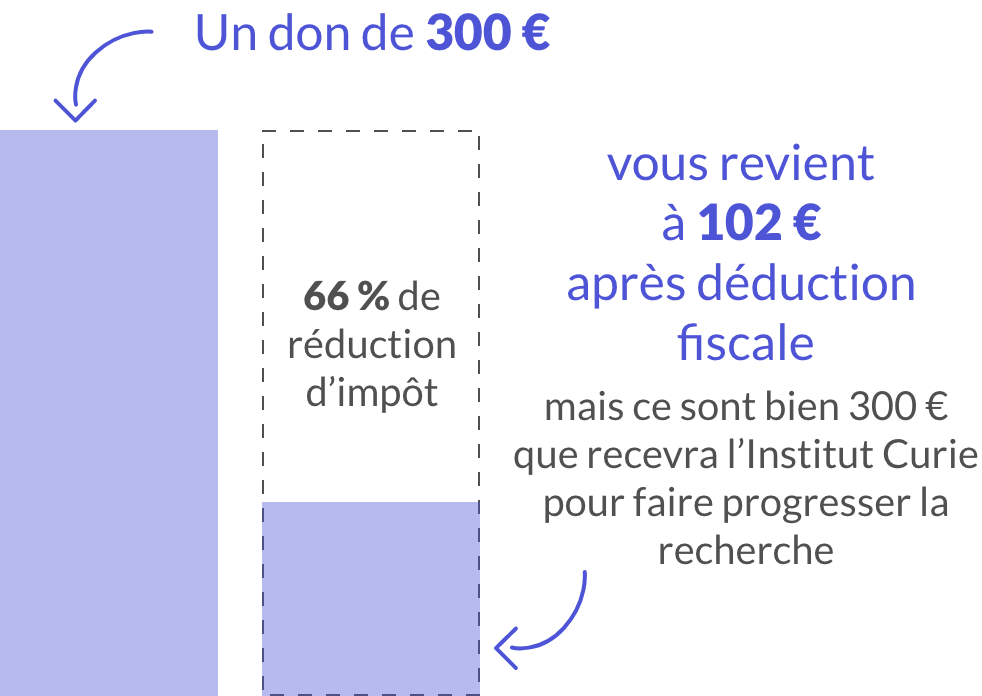
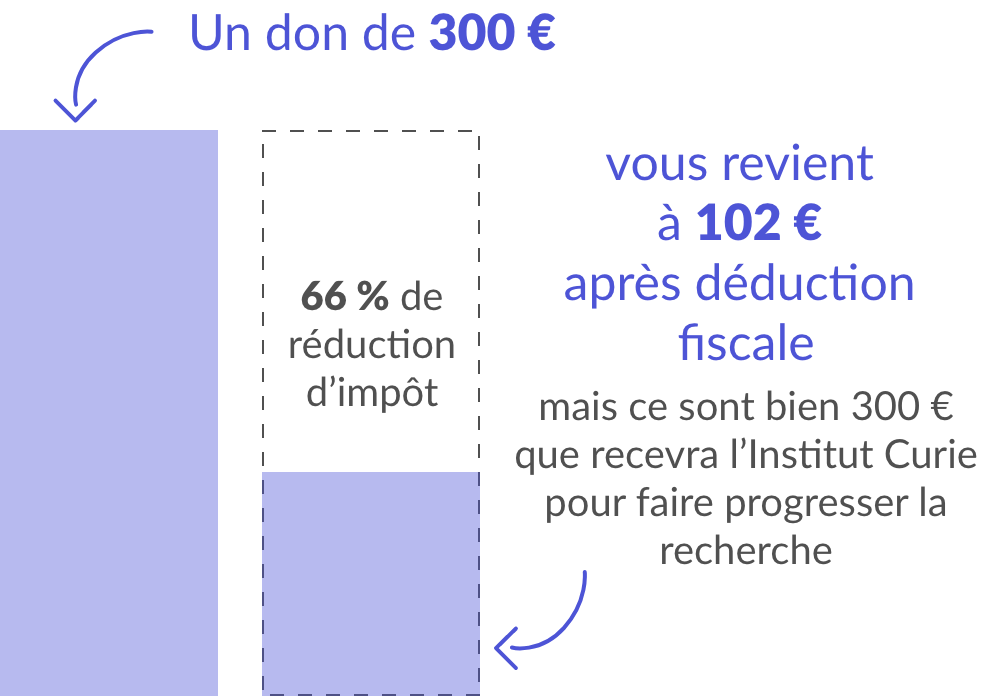
fix: retours

diff --git a/src/lib/components/Projects.svelte b/src/lib/components/Projects.svelte
@@ -95,14 +95,14 @@
                     <p class="text-[#505050] font-Lato text-sm 2xl:text-xl mt-2 xl:mt-5">
                         Pour prendre le cancer de vitesse, investir dans des équipements de pointe est une nécessité.
                         Par exemple, le Dr Stéphanie Descroix, a actuellement besoin d’acquérir un nouveau microscope
-                        dans le cadre du projet de recherche des « <span class="font-bold">tumeurs sur puce</span> ».
+                        dans le cadre du projet de recherche des «&nbsp;<span class="font-bold">tumeurs sur puce</span>&nbsp;».
                     </p>
                     <p class="text-xl font-Lato mt-2 xl:mt-5 font-bold text-[#4D54D6] uppercase underline">
                         Les perspectives pour les patients
                     </p>
                     <p class="text-[#505050] font-Lato text-sm 2xl:text-xl mt-2 xl:mt-5">
                         <span class="italic">« L’acquisition de cet équipement permettra d’exploiter pleinement le potentiel révolutionnaire des tumeurs sur puce. <span
-                                class="font-bold">Il apportera une économie de temps et de ressources permettant de progresser plus vite dans le projet de recherche et de délivrer plus rapidement des traitements ultra- personnalisés pour chaque patient.</span> »</span><br/><br/>
+                                class="font-bold">Il apportera une économie de temps et de ressources permettant de progresser plus vite dans le projet de recherche et de délivrer plus rapidement des traitements ultra-personnalisés pour chaque patient.</span> »</span><br/>
 
                         Dr Stéphanie Descroix
                     </p>
@@ -114,11 +114,11 @@
                     <p class="text-[#505050] font-Lato text-sm 2xl:text-xl  mt-2 xl:mt-5">
                         Les tumeurs sur puce sont des dispositifs miniaturisés permettant de reconstituer fidèlement, in
                         vitro, la tumeur d’un patient. L’intérêt de cette innovation technologique est de pouvoir tester
-                        les traitements sur la tumeur sur puce afin d’identifier celui que sera le plus efficace pour le
+                        les traitements sur la tumeur sur puce afin d’identifier celui qui sera le plus efficace pour le
                         cancer du patient étudié.<br/><br/>
 
                         Mais ce projet nécessite des technologies d’imagerie avancées et l’acquisition d’un équipement
-                        de pointe : un microscope confocal à balayage laser multi dimensionnel. <span class="font-bold">Celui-ci permettra de révéler des détails invisibles jusqu’alors et, moins agressif, il permet de maintenir les cellules en vie plus longtemps afin de permettre aux chercheurs de réaliser de plus longues observations.</span>
+                        de pointe : un microscope confocal à balayage laser multidimensionnel. <span class="font-bold">Celui-ci permettra de révéler des détails invisibles jusqu’alors et, moins agressif, il permet de maintenir les cellules en vie plus longtemps afin de permettre aux chercheurs de réaliser de plus longues observations.</span>
                     </p>
                     <p class="text-xl  font-Lato font-bold text-[#4D54D6] underline uppercase mt-5 xl:mt-6 2xl:mt-10">
                         La porteuse du projet
@@ -181,7 +181,7 @@
                         Le dispositif
                     </p>
                     <p class="text-[#505050] font-Lato text-sm 2xl:text-xl mt-10">
-                        L’Institut Curie offre aux Junior Principal Investigator (JPI) un accompagnement financier pour
+                        L’Institut Curie offre aux <span class="italic">Junior Principal Investigators</span> (JPI) un accompagnement financier pour
                         le recrutement de leur équipe et une aide personnalisée (mise à disposition de locaux, accès aux
                         plateformes technologiques, soutiens administratifs…) afin qu’ils puissent débuter leur activité
                         de recherche dans les meilleures conditions. Cette politique d’accompagnement est entièrement
@@ -216,7 +216,7 @@
                 <div class="w-full h-24 bg-[#4D54D6] grid place-items-center font-medium rounded-b-2xl text-lg md:text-xl !leading-tight text-white"
                      style="text-wrap: balance">
                     <div class="max-w-[870px] text-center font-Raleway">
-                        <span><span class="font-bold">Entrer dans une nouvelle ère de la radiothérapie</span><br/> en déployant une technologie inédite</span>
+                        <span><span class="font-bold">Entrer dans une nouvelle ère de la radiothérapie</span><br/> grâce à une technologie inédite</span>
                     </div>
                 </div>
             </div>

diff --git a/src/lib/components/ProjectsMobile.svelte b/src/lib/components/ProjectsMobile.svelte
@@ -123,7 +123,7 @@
             <p class="font-Lato text-[16px] px-3 text-[#505050]">
                 Pour prendre le cancer de vitesse, investir dans des équipements de pointe est une nécessité. Par
                 exemple, le Dr Stéphanie Descroix, a actuellement besoin d’acquérir un nouveau microscope dans le cadre
-                du projet de recherche des « tumeurs sur puce ».
+                du projet de recherche des «&nbsp;tumeurs sur puce&nbsp;».
             </p>
             <div class="flex flex-col">
                 <p class="underline uppercase text-[#4D54D6] text-[18px] font-bold px-3">
@@ -133,10 +133,10 @@
             <p class="font-Lato text-[16px] px-3 text-[#505050]">
                 Les tumeurs sur puce sont des dispositifs miniaturisés permettant de reconstituer fidèlement, in vitro,
                 la tumeur d’un patient. L’intérêt de cette innovation technologique est de pouvoir tester les
-                traitements sur la tumeur sur puce afin d’identifier celui que sera le plus efficace pour le cancer du
+                traitements sur la tumeur sur puce afin d’identifier celui qui sera le plus efficace pour le cancer du
                 patient étudié.<br/><br/>
                 Mais ce projet nécessite des technologies d’imagerie avancées et l’acquisition d’un équipement de pointe
-                : un microscope confocal à balayage laser multi dimensionnel. <span class="font-bold">Celui-ci permettra de révéler des détails
+                : un microscope confocal à balayage laser multidimensionnel. <span class="font-bold">Celui-ci permettra de révéler des détails
                 invisibles jusqu’alors et, moins agressif, il permet de maintenir les cellules en vie plus longtemps
                 afin de permettre aux chercheurs de réaliser de plus longues observations.</span>
             </p>
@@ -149,7 +149,7 @@
                 « L’acquisition de cet équipement permettra d’exploiter pleinement le potentiel révolutionnaire des
                 tumeurs sur puce. <span class="font-bold">Il apportera une économie de temps et de ressources permettant de progresser plus vite
                 dans le projet de recherche et de délivrer plus rapidement des traitements ultra- personnalisés pour
-                chaque patient.</span> »<br/><br/>
+                chaque patient.</span> »<br/>
                 Dr Stéphanie Descroix
             </p>
             <div class="flex flex-col relative gap-y-5">
@@ -225,7 +225,7 @@
                 </p>
             </div>
             <p class="font-Lato text-[16px] px-3 text-[#505050]">
-                L’Institut Curie offre aux Junior Principal Investigator (JPI) un accompagnement financier pour le
+                L’Institut Curie offre aux <span class="italic">Junior Principal Investigators</span> (JPI) un accompagnement financier pour le
                 recrutement de leur équipe et une aide personnalisée (mise à disposition de locaux, accès aux
                 plateformes technologiques, soutiens administratifs…) afin qu’ils puissent débuter leur activité de
                 recherche dans les meilleures conditions. Cette politique d’accompagnement est entièrement financée par
@@ -291,7 +291,7 @@
             <div class="px-3">
                 <img src="/bg-project-3-mobile.jpg" class="w-full aspect-[340/240] object-cover"/>
                 <div class="bg-[#4D54D6] font-Raleway rounded-b-2xl min-h-[80px] py-2.5 w-full px-10 text-white flex justify-center items-center leading-tight text-center">
-                    <span><span class="font-bold">Entrer dans une nouvelle ère de la radiothérapie</span> en déployant une technologie inédite</span>
+                    <span><span class="font-bold">Entrer dans une nouvelle ère de la radiothérapie</span> grâce à une technologie inédite</span>
                 </div>
             </div>
 

diff --git a/src/lib/components/StickyBanner.svelte b/src/lib/components/StickyBanner.svelte
@@ -103,7 +103,7 @@
                             <p class={`text-xl 2xl:text-2xl font-Raleway w-auto font-bold ${isInputFocused === 2 ? 'text-[#FF6600]' : ''}`}>
                                 Montant de votre don<br/>
                                 pour réduire votre IFI<br/>
-                                au maximum dans la limite<br/>
+                                au maximum, dans la limite<br/>
                                 de 50 000 € de réduction fiscale
                             </p>
                             <div class="input-container rounded-3xl border-2 text-center 2xl:pt-2 border-gray-500 w-[25vh] h-[5vh] font-Raleway text-[#FF6600] text-xl 2xl:text-2xl font-bold">
@@ -270,7 +270,7 @@
                             <p class={`text-[2vh] font-Raleway font-bold ${isInputFocused === 2 ? 'text-[#FF6600]' : ''}`}>
                                 Montant de votre don
                                 pour réduire votre IFI
-                                au maximum dans la limite
+                                au maximum, dans la limite
                                 de 50 000 € de réduction fiscal
                             </p>
                             <p class={`text-[2vh] font-Raleway font-bold ${isInputFocused === 3 ? 'text-[#FF6600]' : ''}`}>

diff --git a/src/lib/components/GraphPart.svelte b/src/lib/components/GraphPart.svelte
@@ -82,7 +82,7 @@
                 sur les Sociétés
             </p>
             <p class="font-bold text-xl xl:text-2xl font-Lato">
-                <span class="text-[#34B3C5]">60 % du montant de votre don est<br/> déductible de votre lS</span> dans la limite de 0,5 %<br/> de votre chiffre d’affaires hors taxes.
+                <span class="text-[#34B3C5]">60 % du montant de votre don est<br/> déductible de votre lS</span>, dans la limite de 0,5 %<br/> de votre chiffre d’affaires hors taxes.
             </p>
             <p class="text-xl 2xl:text-2xl">
                 Par exemple :

diff --git a/src/lib/components/TestTimeline.svelte b/src/lib/components/TestTimeline.svelte
@@ -2,7 +2,7 @@
         <p class="font-Raleway text-center font-black text-[#FF6600] lg:text-2xl 2xl:text-4xl uppercase">
             CALENDRIER de déclaration FISCALE <span class="font-Lato">2025</span>
         </p>
-    <img src="/timeline.png" width="900" />
+    <img src="/timeline-desktop.png" width="900" />
 </section>
 
 <style lang="scss">
